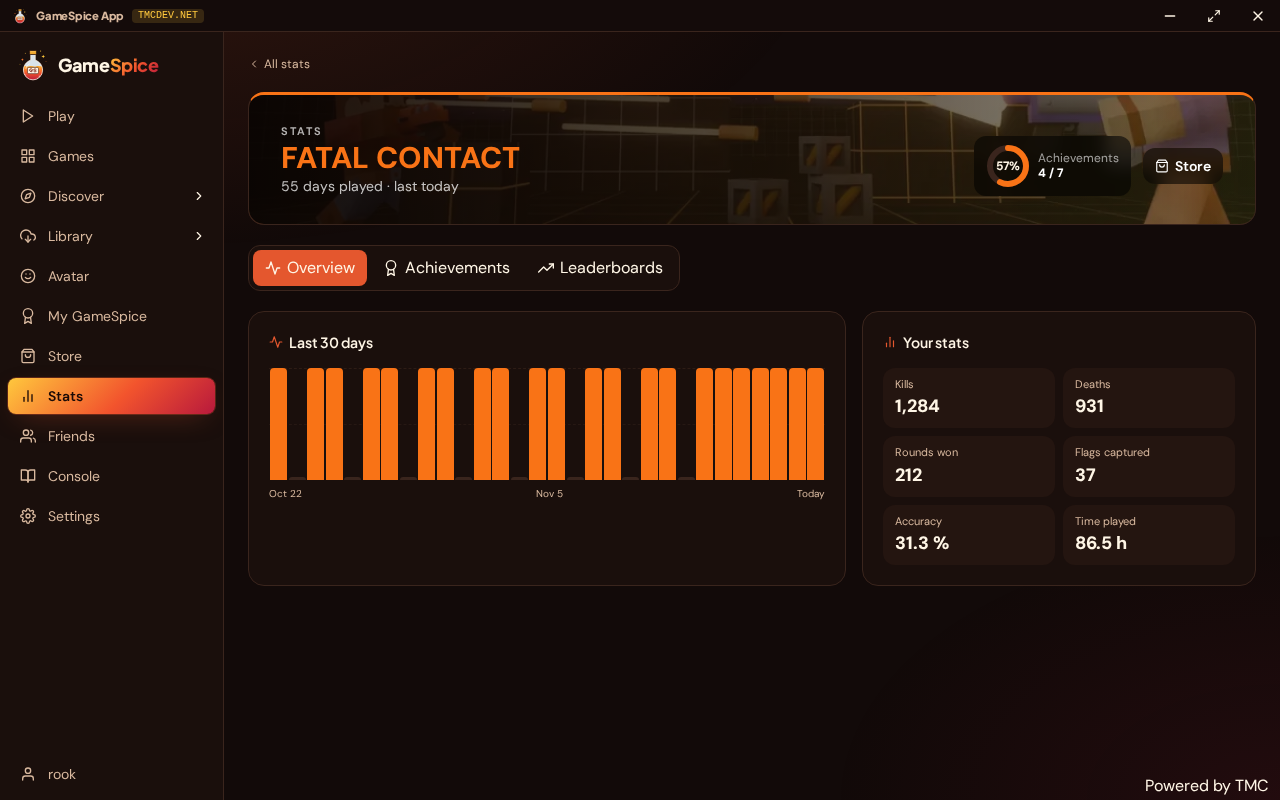
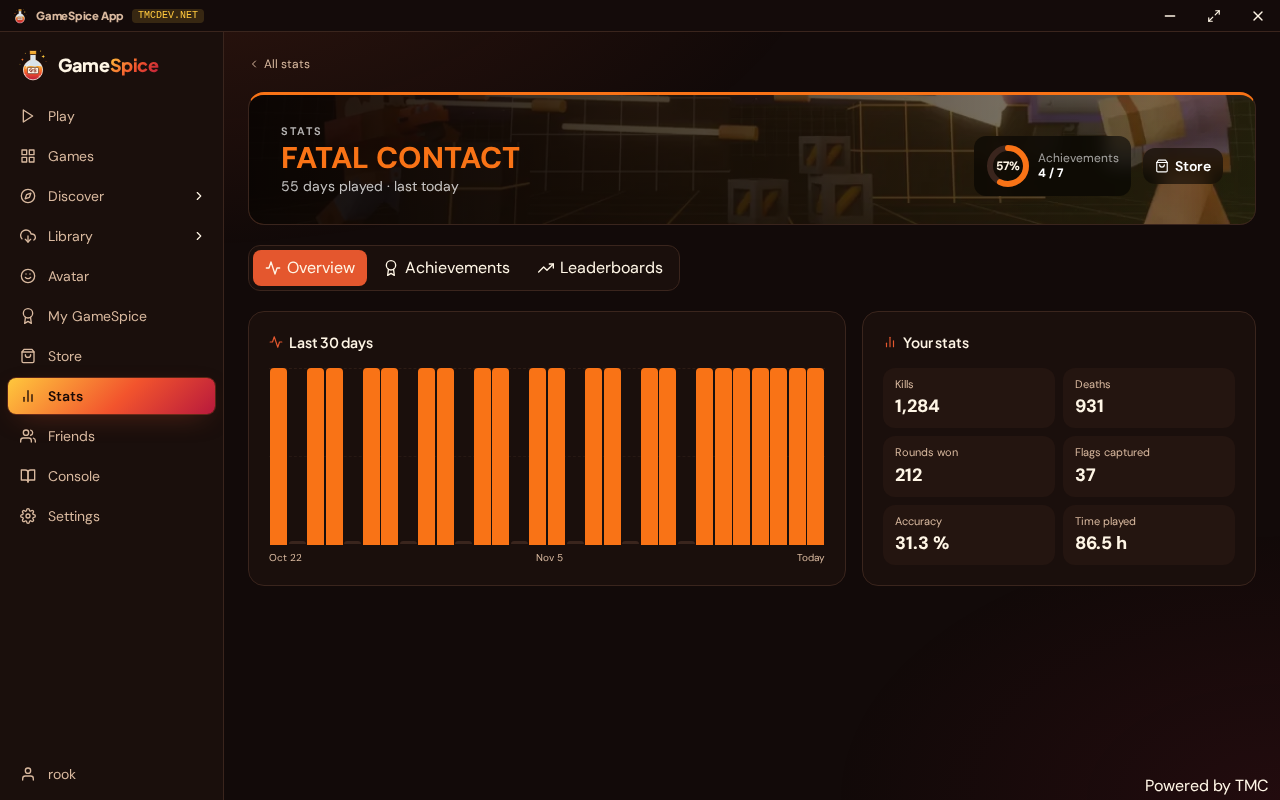
Stats activity chart fills its panel

Changed region(s): [[0.1875, 0.5938, 0.6562, 0.6875]]

diff --git a/src/components/gs-charts.tsx b/src/components/gs-charts.tsx
@@ -33,8 +33,8 @@ export function ActivityBars({
     const plural = (v: number) => `${v} ${unit}${v === 1 ? '' : 's'}`
 
     return (
-        <figure className="flex flex-col gap-1.5" aria-label={`Played on ${active} of the last ${n} days`}>
-            <div className="relative" style={{ height }} onMouseLeave={() => setHover(null)}>
+        <figure className="flex flex-1 flex-col gap-1.5" aria-label={`Played on ${active} of the last ${n} days`}>
+            <div className="relative flex-1" style={{ minHeight: height }} onMouseLeave={() => setHover(null)}>
                 {/* Recessive guide lines at the top and the middle. */}
                 <div className="pointer-events-none absolute inset-x-0 top-0 border-t border-dashed border-border/60" />
                 <div className="pointer-events-none absolute inset-x-0 top-1/2 border-t border-dashed border-border/40" />
